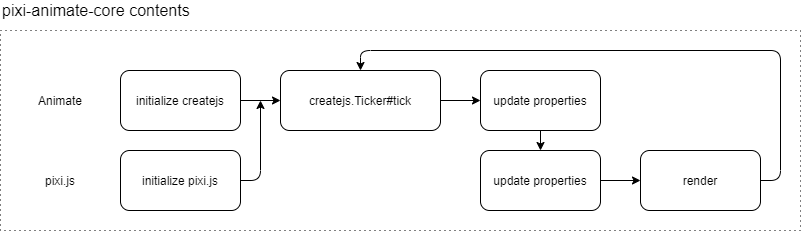
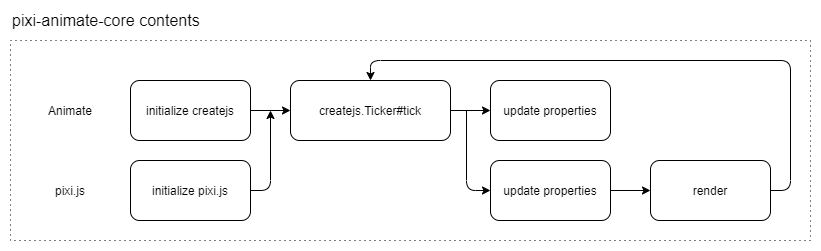
auto

diff --git a/docs/index.html b/docs/index.html
@@ -67,14 +67,21 @@
 				<a href="#tawashippixi-animate-core" id="tawashippixi-animate-core" style="color: inherit; text-decoration: none;">
 					<h1>@tawaship/pixi-animate-core</h1>
 				</a>
-				<p>&quot;pixi-createjs-core&quot; is a plugin for processing the content published by Adobe Animate with &quot;<a href="https://github.com/pixijs/pixi.js">pixi.js</a>&quot;.</p>
+				<p>&quot;pixi-createjs-core&quot; is a module for processing the content published by Adobe Animate with &quot;<a href="https://github.com/pixijs/pixi.js">pixi.js</a>&quot;.</p>
 				<p><strong>This plugin is a core module, not intended to run alone.</strong></p>
 				<p><a href="LICENSE"><img src="http://img.shields.io/badge/license-MIT-blue.svg?style=flat" alt="MIT License"></a></p>
 				<hr>
 				<a href="#overview" id="overview" style="color: inherit; text-decoration: none;">
 					<h2>Overview</h2>
 				</a>
-				<p><img src="https://raw.githubusercontent.com/tawaship/pixi-animate-core/master/overview.png" alt="overview"></p>
+				<a href="#each-original-simplified-flow" id="each-original-simplified-flow" style="color: inherit; text-decoration: none;">
+					<h3>Each original (simplified) flow</h3>
+				</a>
+				<p><img src="https://raw.githubusercontent.com/tawaship/pixi-animate-core/master/origin.png" alt="origin"></p>
+				<a href="#flow-to-be-realized" id="flow-to-be-realized" style="color: inherit; text-decoration: none;">
+					<h3>Flow to be realized</h3>
+				</a>
+				<p><img src="https://raw.githubusercontent.com/tawaship/pixi-animate-core/master/core.png" alt="core"></p>
 				<a href="#support-version" id="support-version" style="color: inherit; text-decoration: none;">
 					<h2>Support version</h2>
 				</a>

diff --git a/README.md b/README.md
@@ -1,6 +1,6 @@
 # @tawaship/pixi-animate-core
 
-"pixi-createjs-core" is a plugin for processing the content published by Adobe Animate with "[pixi.js](https://github.com/pixijs/pixi.js)".
+"pixi-createjs-core" is a module for processing the content published by Adobe Animate with "[pixi.js](https://github.com/pixijs/pixi.js)".
 
 **This plugin is a core module, not intended to run alone.**
 
@@ -10,7 +10,13 @@
 
 ## Overview
 
-![overview](https://raw.githubusercontent.com/tawaship/pixi-animate-core/master/overview.png)
+### Each original (simplified) flow
+
+![origin](https://raw.githubusercontent.com/tawaship/pixi-animate-core/master/origin.png)
+
+### Flow to be realized
+
+![core](https://raw.githubusercontent.com/tawaship/pixi-animate-core/master/core.png)
 
 ## Support version
 
